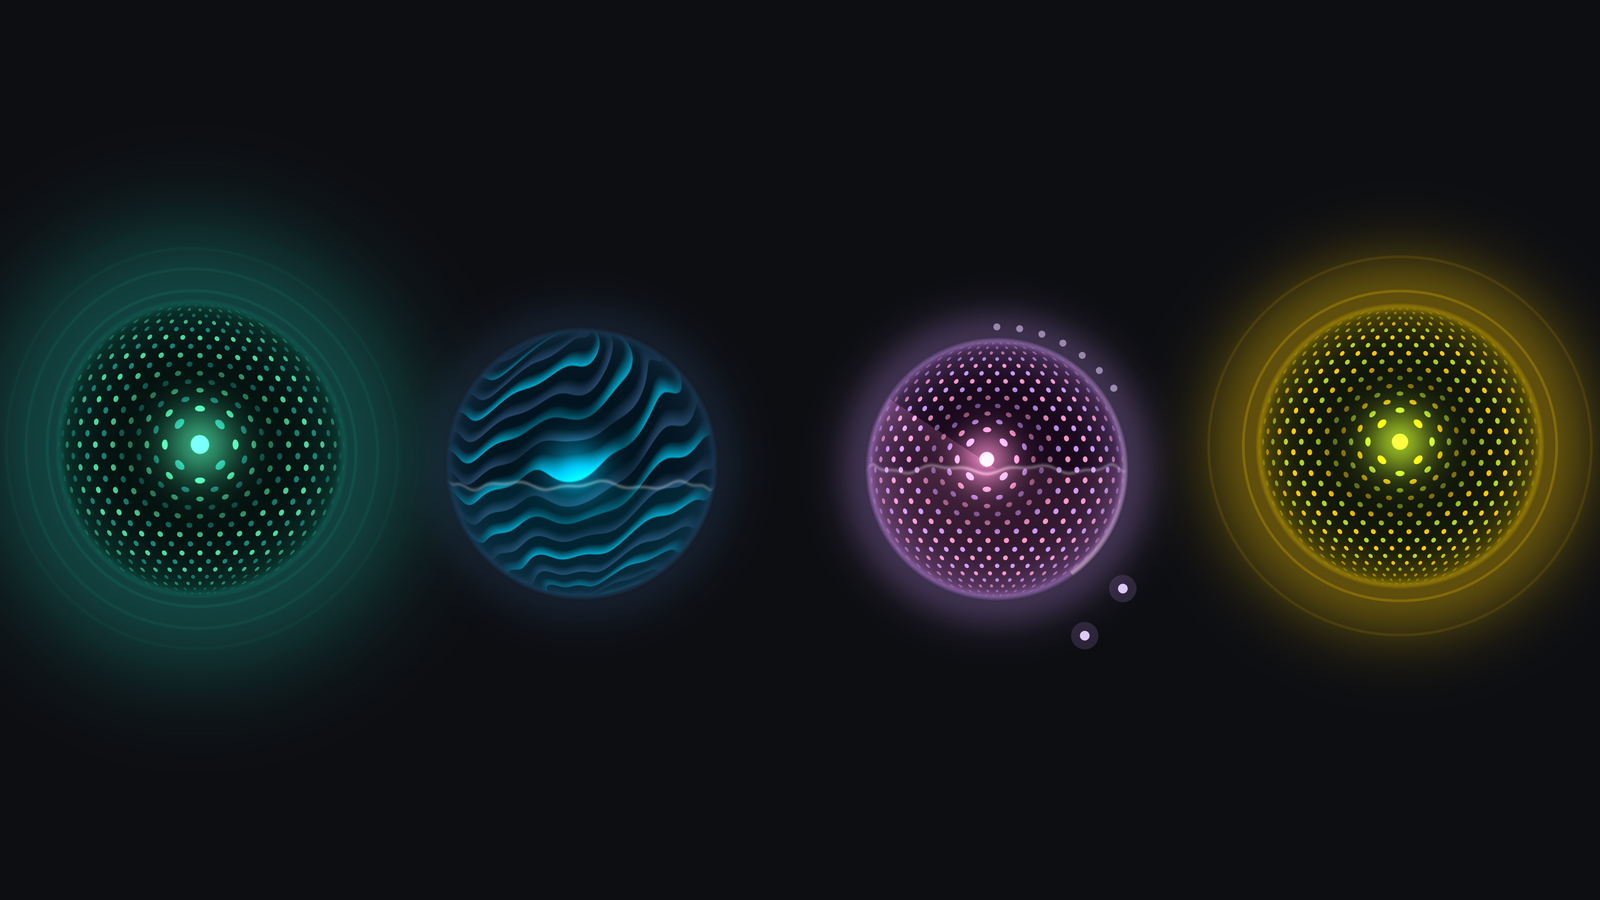
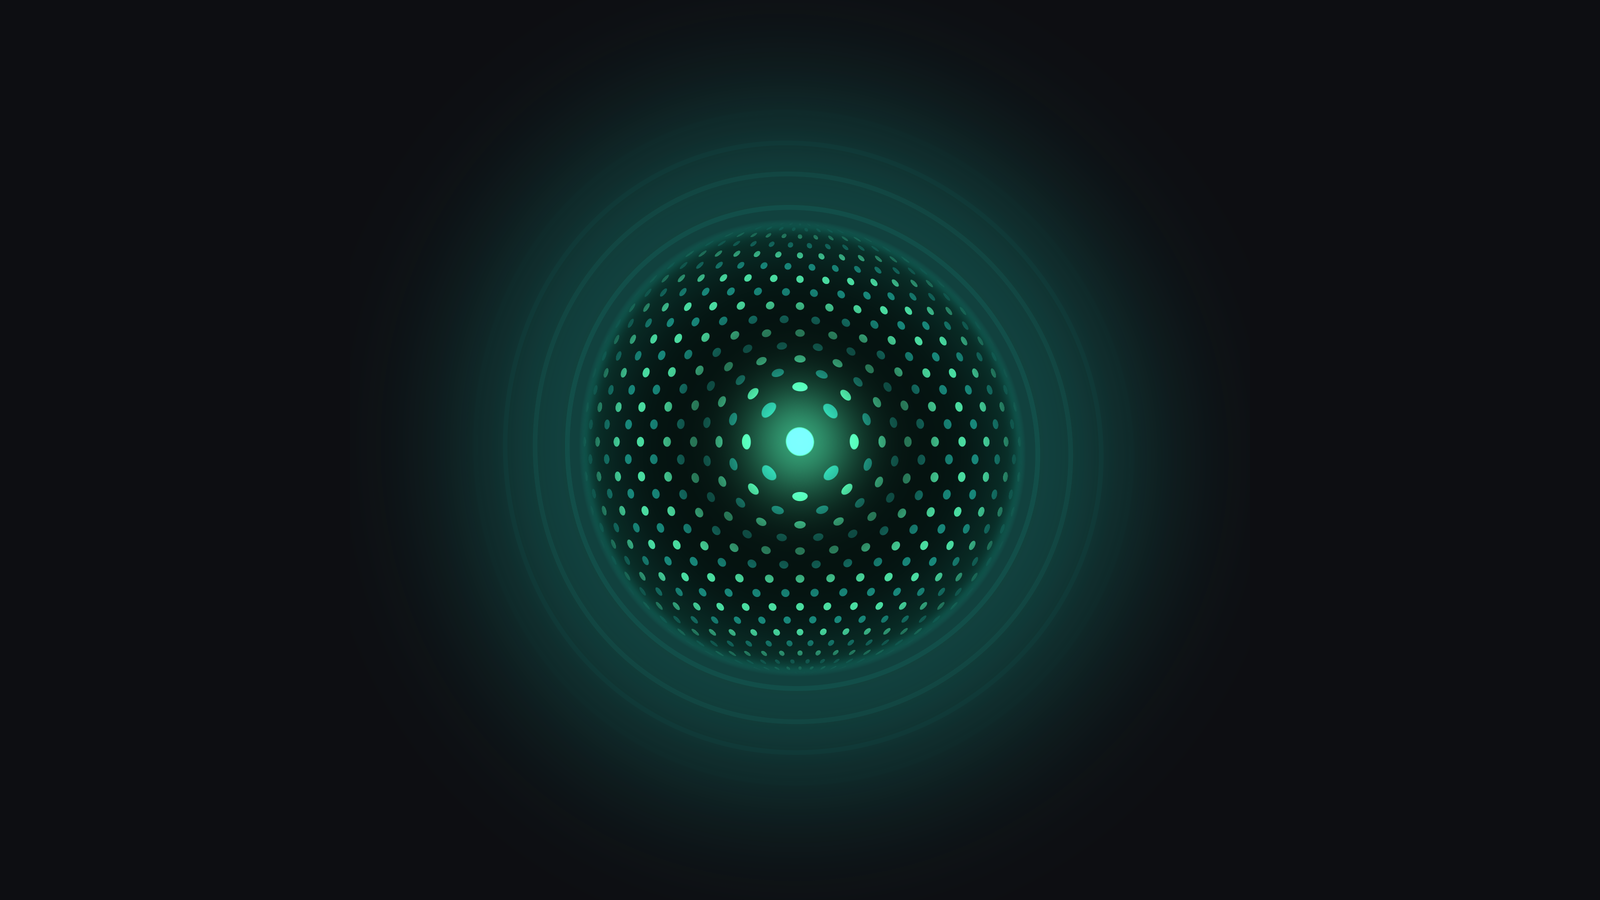
Preview: one orb, listening

diff --git a/README.md b/README.md
@@ -2,7 +2,7 @@
 
 Voice companion for [Omarchy](https://omarchy.org). Tap a key, talk, and an orb shows your coding agent at work.
 
-![The orb listening, thinking, delegating and speaking](preview.png)
+![The orb, listening](preview.png)
 
 <div align="center">
   <img src="docs/orb.webp" width="360" alt="The orb waking up, saying hello, listening, working and reporting back" />
